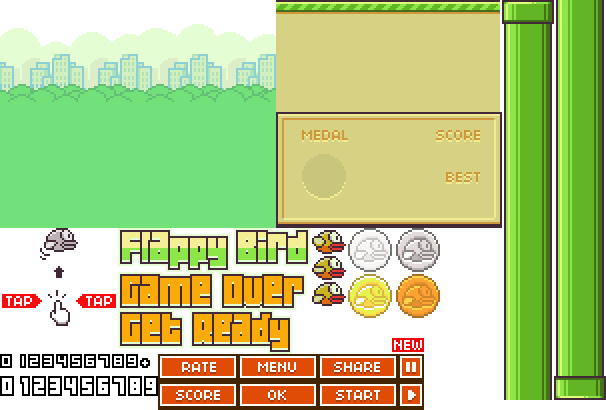
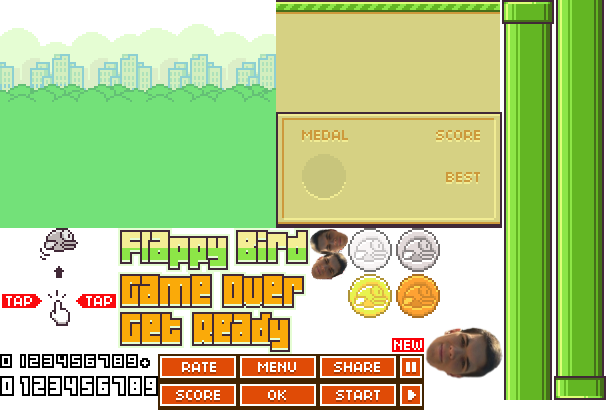
Update

Changed region(s): [[0.6832, 0.7902, 0.8317, 0.9366], [0.505, 0.5561, 0.5941, 0.761]]

diff --git a/Graphica/Laba 2 Gorki/sprite.js b/Graphica/Laba 2 Gorki/sprite.js
@@ -1,4 +1,4 @@
-var 
+var
 
 s_bird,
 s_bg,
@@ -27,19 +27,29 @@ Sprite.prototype.draw = function(ctx, x, y) {
 
 function initSprites(img) {
 
+/*
 	s_bird = [
 		new Sprite(img, 156, 115, 17, 12),
 		new Sprite(img, 156, 128, 17, 12),
 		new Sprite(img, 156, 141, 17, 12)
 	];
-	
+*/
+
+
+
+	s_bird = [
+		new Sprite(img, 212, 160, 39, 30),
+		new Sprite(img, 212, 160, 39, 30),
+		new Sprite(img, 212, 160, 39, 30)
+	];
+
 	s_bg = new Sprite(img,   0, 0, 138, 114);
 	s_bg.color = "#70C5CF";
 	s_fg = new Sprite(img, 138, 0, 112,  56);
-	
+
 	s_pipeNorth = new Sprite(img, 251, 0, 26, 200);
 	s_pipeSouth = new Sprite(img, 277, 0, 26, 200);
-	
+
 	s_text = {
 		FlappyBird: new Sprite(img, 59, 114, 96, 22),
 		GameOver:   new Sprite(img, 59, 136, 94, 19),
